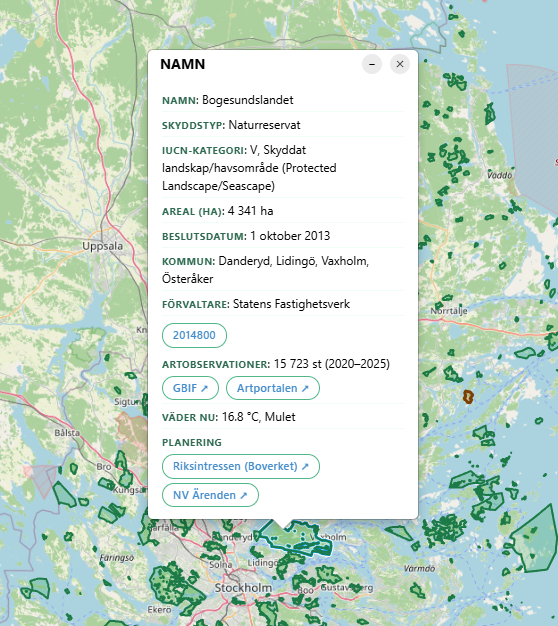
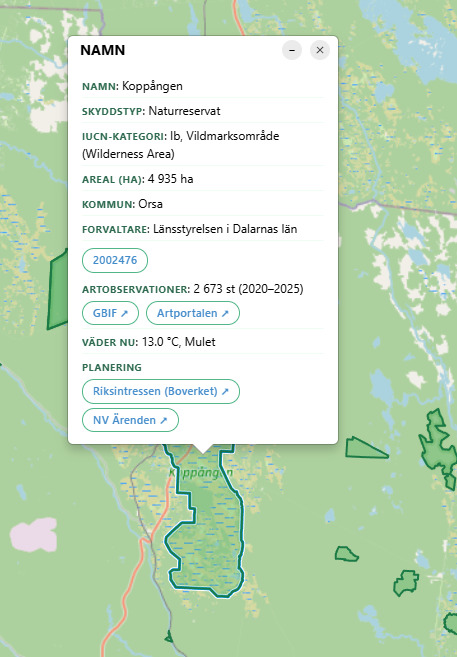
docs+fix: update screenshots and expand Sweden extent to 69.5°N
Screenshots now show top-left header and filtered legend.
EXTENTS.all expanded north (10520000→10920000) so Norrbotten
is no longer clipped at startup.

diff --git a/public/index.html b/public/index.html
@@ -488,7 +488,7 @@
     vnr:   [1647696, 8896201, 2140362, 9343666],
     vml:   [1720351, 8237248, 1892939, 8437451],
     ore:   [1592309, 8112528, 1750777, 8417005],
-    all:   [1180000, 7320000, 2800000, 10520000]
+    all:   [1100000, 7280000, 2900000, 10920000]
   };
 
   var ALL_NR = Object.keys(COUNTY_LAYER_SUFFIX).map(function(c) {
